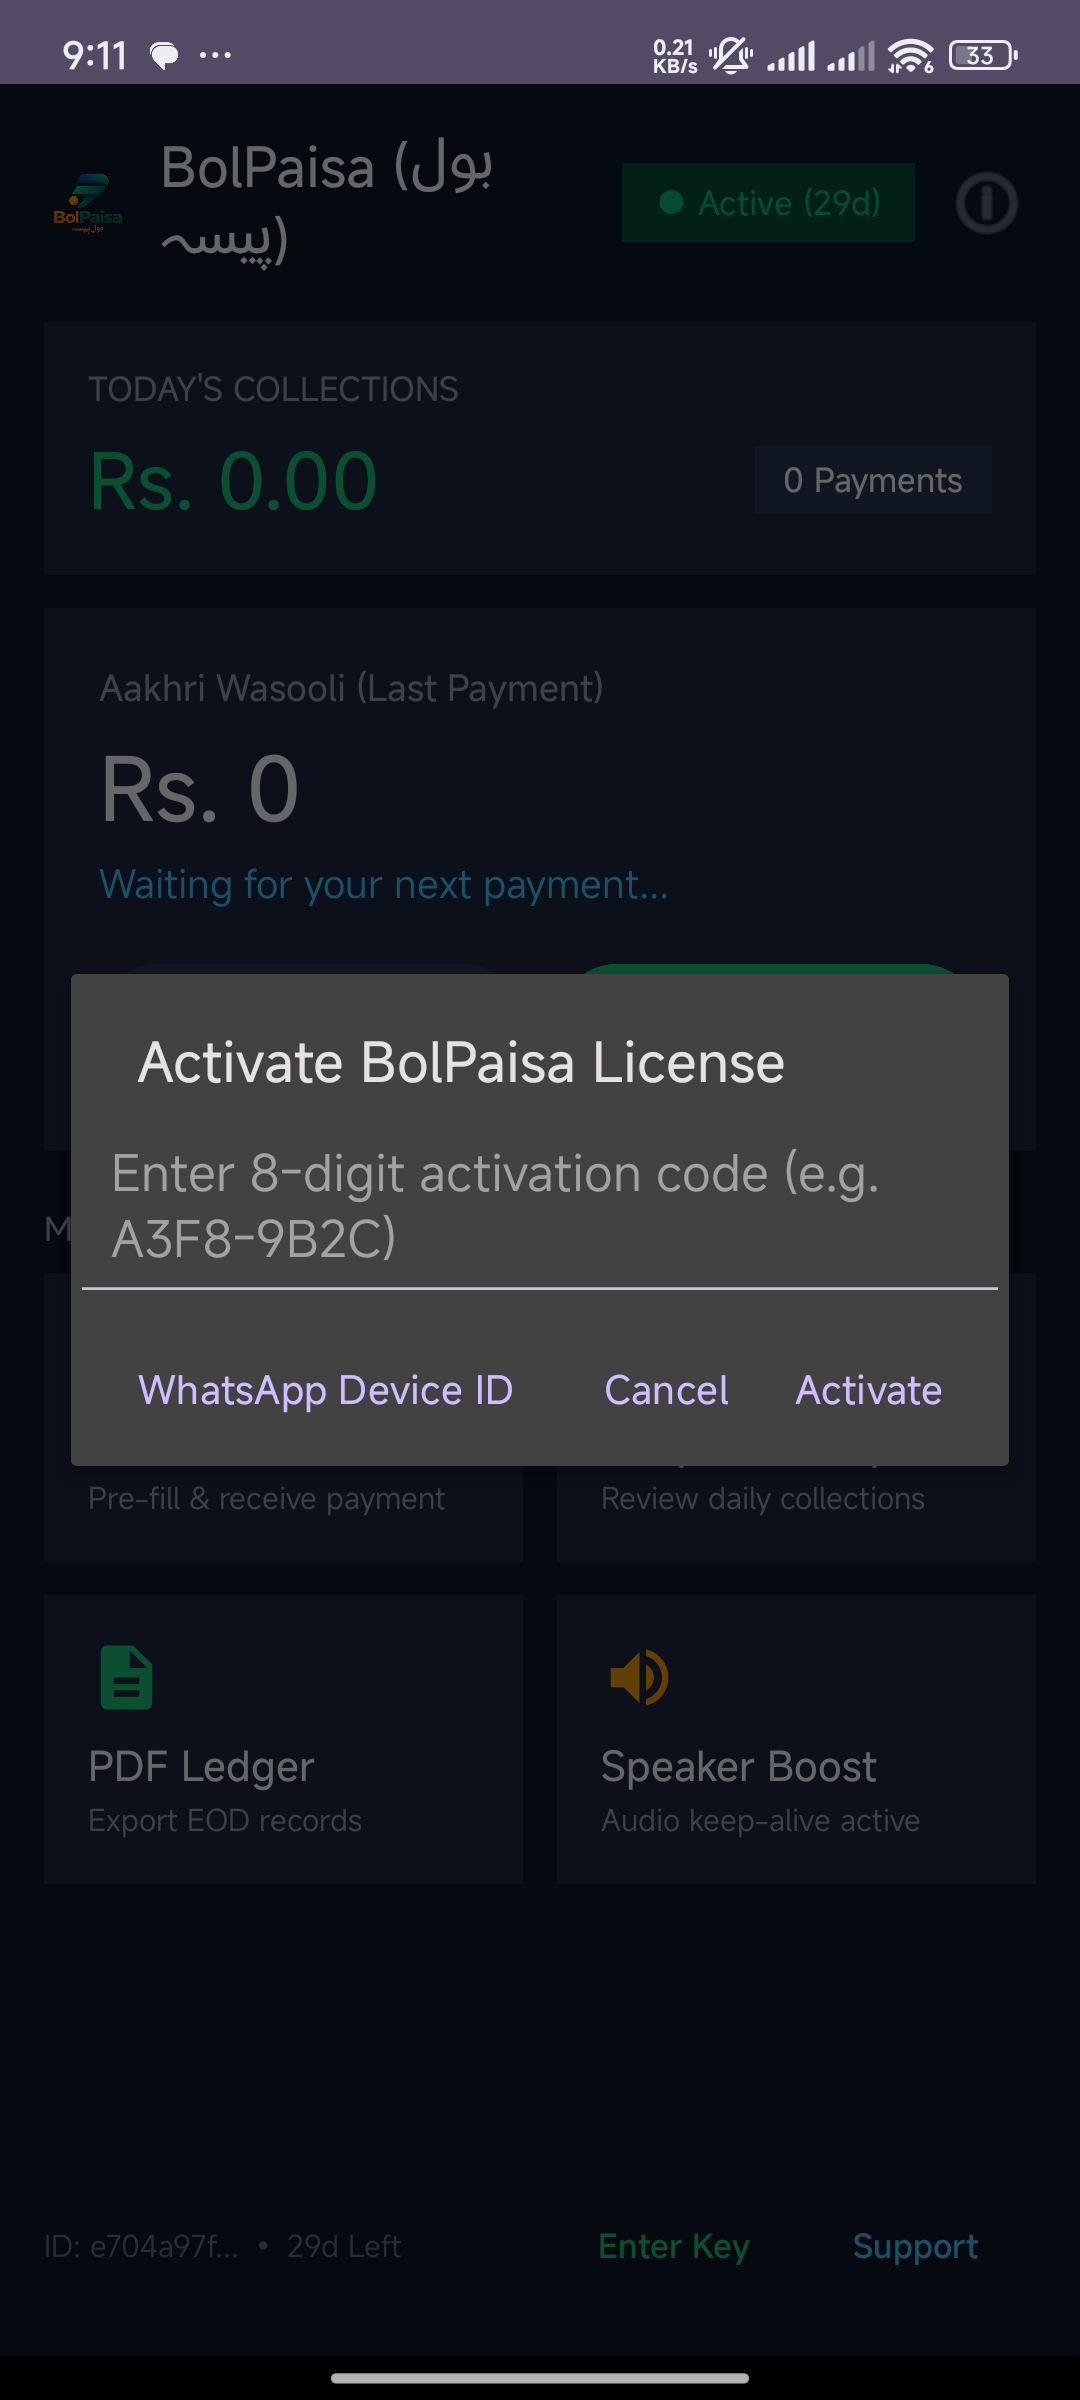
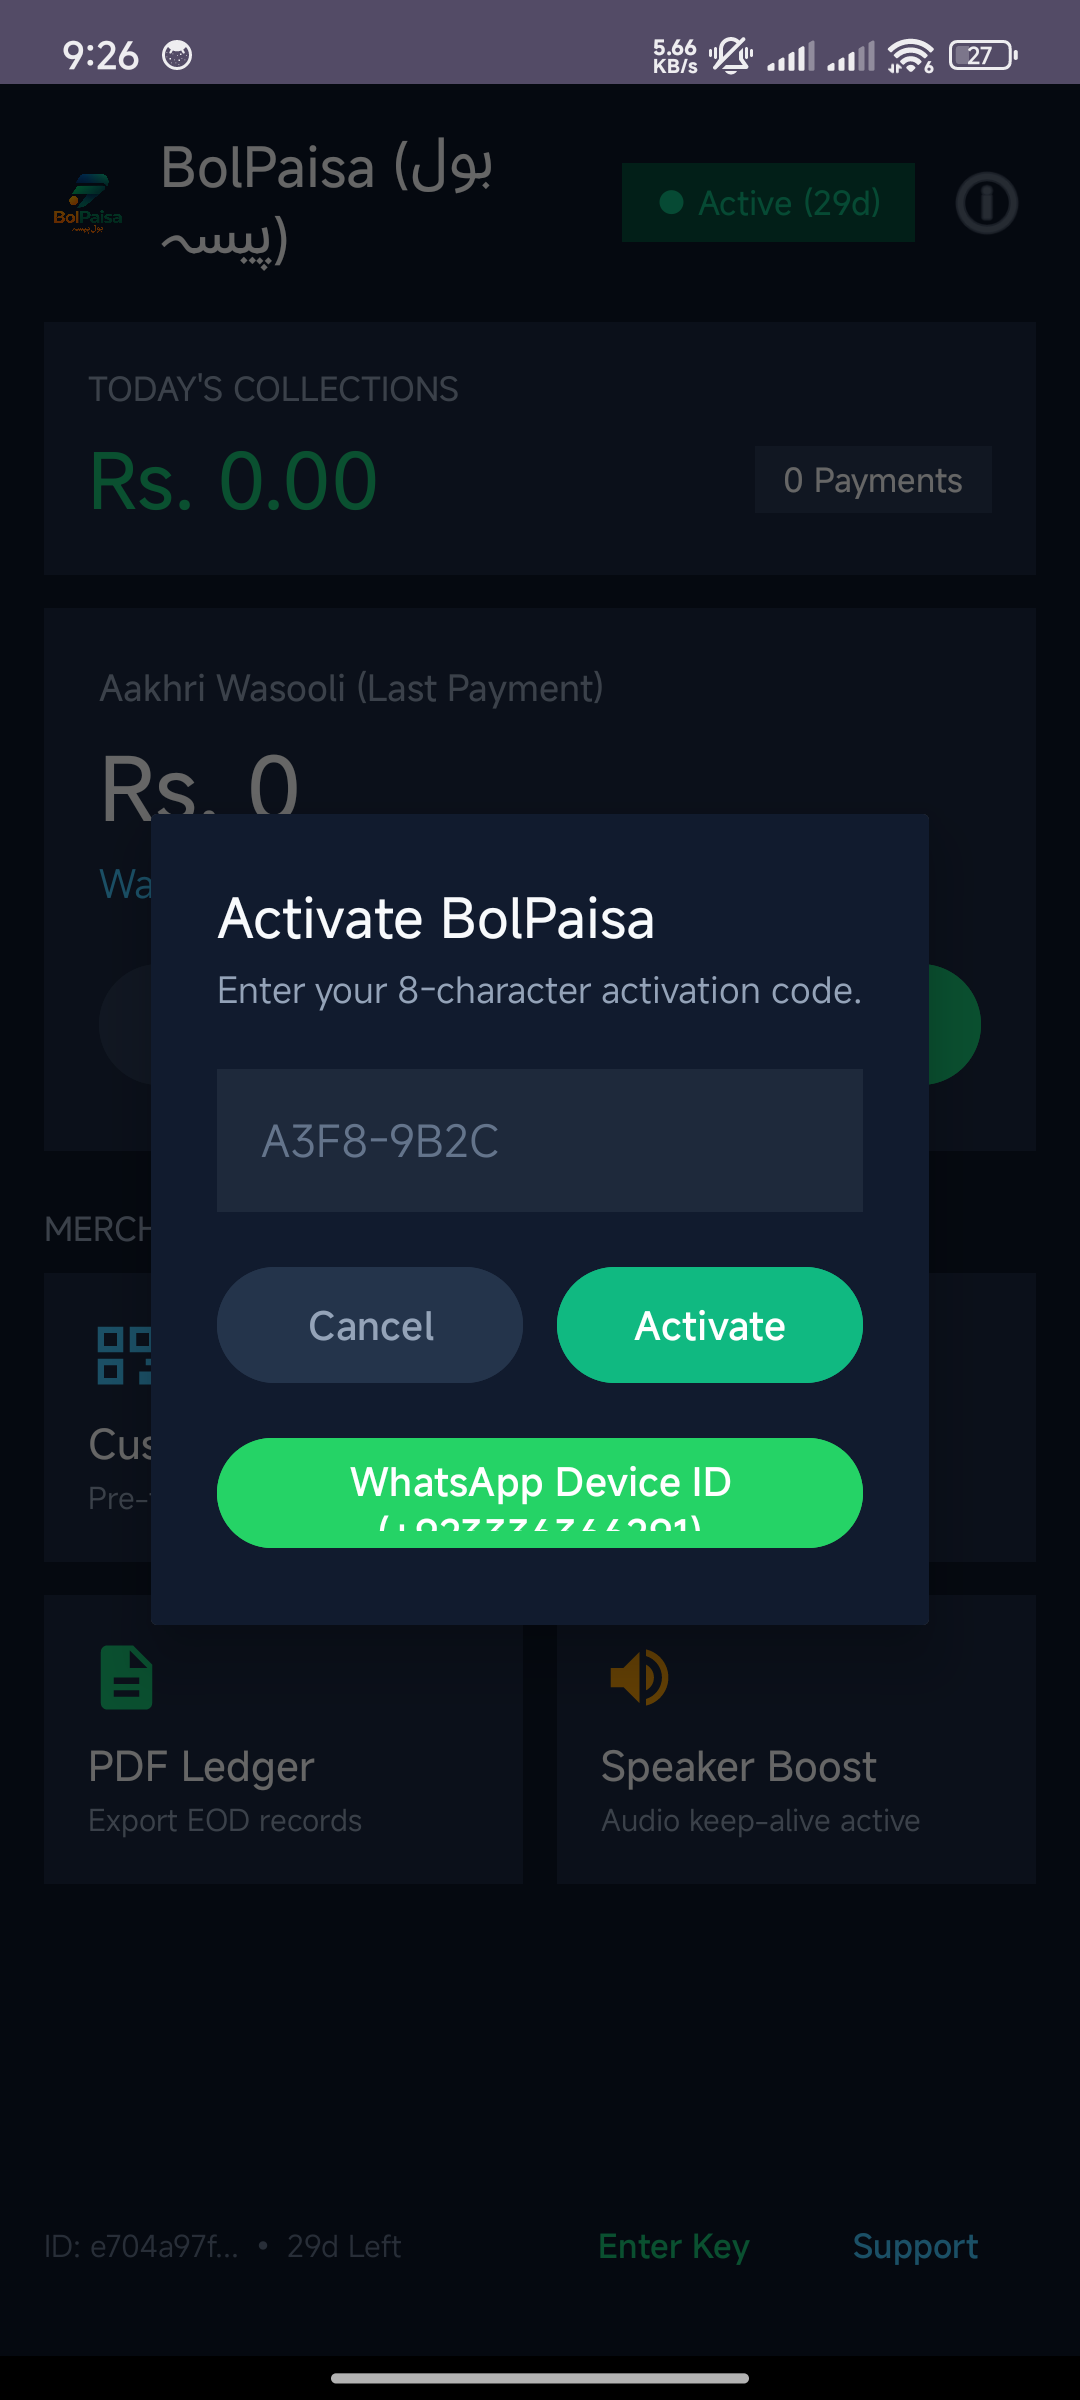
refactor(ui): unify visual design system across Dynamic Payment QR dialog, License Activation dialog, and About Support screen with deep navy surfaces and emerald actions

Changed region(s): [[0.0611, 0.3438, 0.9472, 0.6875], [0.0917, 0.0, 0.1833, 0.0312], [0.6111, 0.0, 0.6417, 0.0312]]

diff --git a/app/src/main/java/com/bolpaisa/app/ui/MainActivity.kt b/app/src/main/java/com/bolpaisa/app/ui/MainActivity.kt
@@ -1,5 +1,6 @@
 package com.bolpaisa.app.ui
 
+import android.app.Dialog
 import android.content.ActivityNotFoundException
 import android.content.Intent
 import android.net.Uri
@@ -281,31 +282,34 @@ class MainActivity : AppCompatActivity() {
     }
 
     private fun showActivationDialog(tvStatusPill: TextView, tvFooterDeviceInfo: TextView) {
-        val builder = AlertDialog.Builder(this)
-        builder.setTitle("Activate BolPaisa License")
+        val dialog = Dialog(this)
+        dialog.setContentView(R.layout.dialog_activation)
 
-        val input = EditText(this).apply {
-            hint = "Enter 8-digit activation code (e.g. A3F8-9B2C)"
-            setPadding(40, 40, 40, 40)
+        val etCode = dialog.findViewById<EditText>(R.id.etActivationCode)
+        val btnSubmit = dialog.findViewById<Button>(R.id.btnSubmitActivation)
+        val btnCancel = dialog.findViewById<Button>(R.id.btnCancelActivation)
+        val btnWhatsApp = dialog.findViewById<Button>(R.id.btnWhatsAppDeviceId)
+
+        btnCancel.setOnClickListener {
+            dialog.dismiss()
         }
-        builder.setView(input)
 
-        builder.setPositiveButton("Activate") { _, _ ->
-            val code = input.text.toString()
+        btnWhatsApp.setOnClickListener {
+            openWhatsAppSupport()
+        }
+
+        btnSubmit.setOnClickListener {
+            val code = etCode.text.toString().trim()
             if (subscriptionManager.activateLicense(code)) {
                 Toast.makeText(this, "License activated successfully!", Toast.LENGTH_LONG).show()
                 updateStatusDisplay(tvStatusPill, tvFooterDeviceInfo)
+                dialog.dismiss()
             } else {
                 Toast.makeText(this, "Invalid or already used activation code.", Toast.LENGTH_LONG).show()
             }
         }
 
-        builder.setNeutralButton("WhatsApp Device ID") { _, _ ->
-            openWhatsAppSupport()
-        }
-
-        builder.setNegativeButton("Cancel", null)
-        builder.show()
+        dialog.show()
     }
 
     private fun openWhatsAppSupport() {

diff --git a/app/src/main/java/com/bolpaisa/app/ui/DynamicQrDialog.kt b/app/src/main/java/com/bolpaisa/app/ui/DynamicQrDialog.kt
@@ -23,14 +23,23 @@ class DynamicQrDialog(context: Context) : Dialog(context) {
 
         val etAmount = findViewById<EditText>(R.id.etAmount)
         val btnGenerate = findViewById<Button>(R.id.btnGenerateQr)
+        val btnCancel = findViewById<Button>(R.id.btnCancelQr)
         val ivQrCode = findViewById<ImageView>(R.id.ivQrCode)
         val tvQrPayload = findViewById<TextView>(R.id.tvQrPayload)
 
+        btnCancel.setOnClickListener {
+            dismiss()
+        }
+
         btnGenerate.setOnClickListener {
-            val amountStr = etAmount.text.toString().trim()
+            var amountStr = etAmount.text.toString().trim()
+            if (amountStr.startsWith("Rs.", true)) {
+                amountStr = amountStr.substring(3).trim()
+            }
             val amount = amountStr.toDoubleOrNull()
+
             if (amount == null || amount <= 0) {
-                Toast.makeText(context, "Please enter a valid amount", Toast.LENGTH_SHORT).show()
+                Toast.makeText(context, "Please enter a valid payment amount", Toast.LENGTH_SHORT).show()
                 return@setOnClickListener
             }
 
